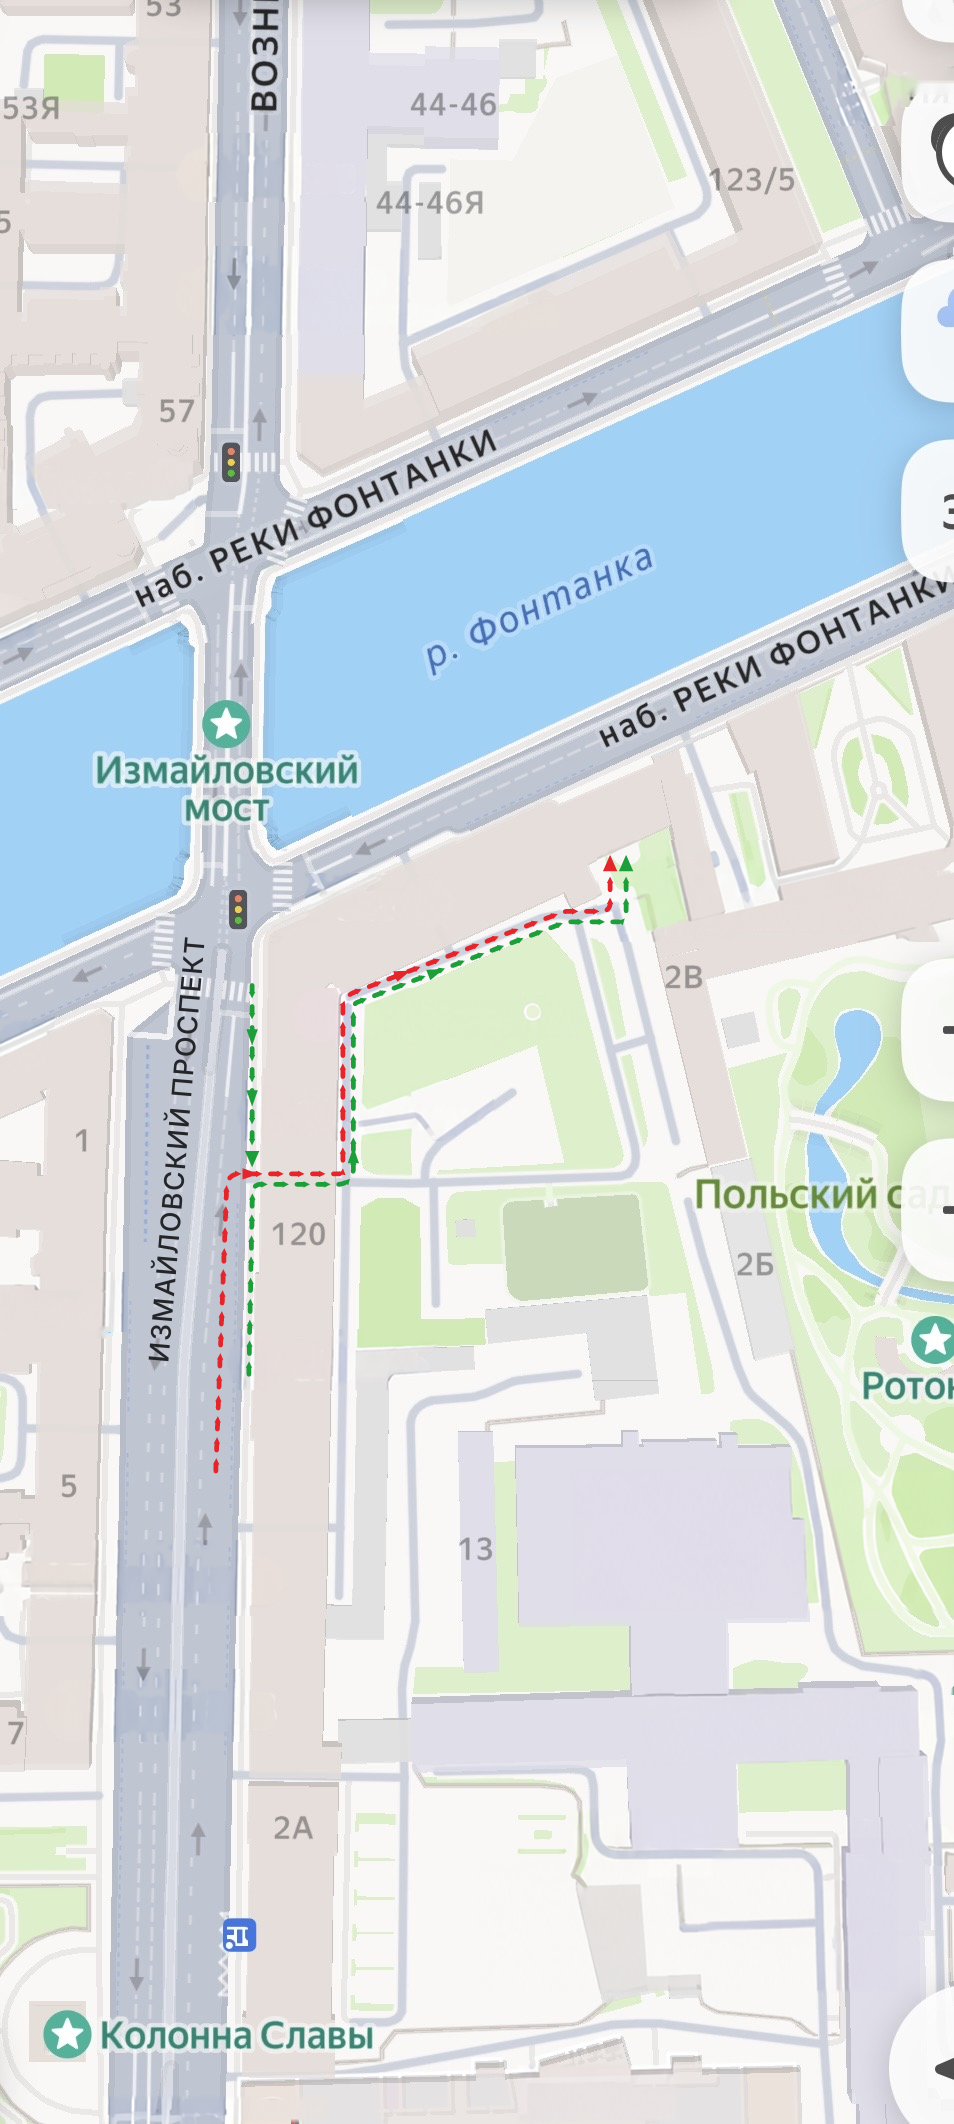
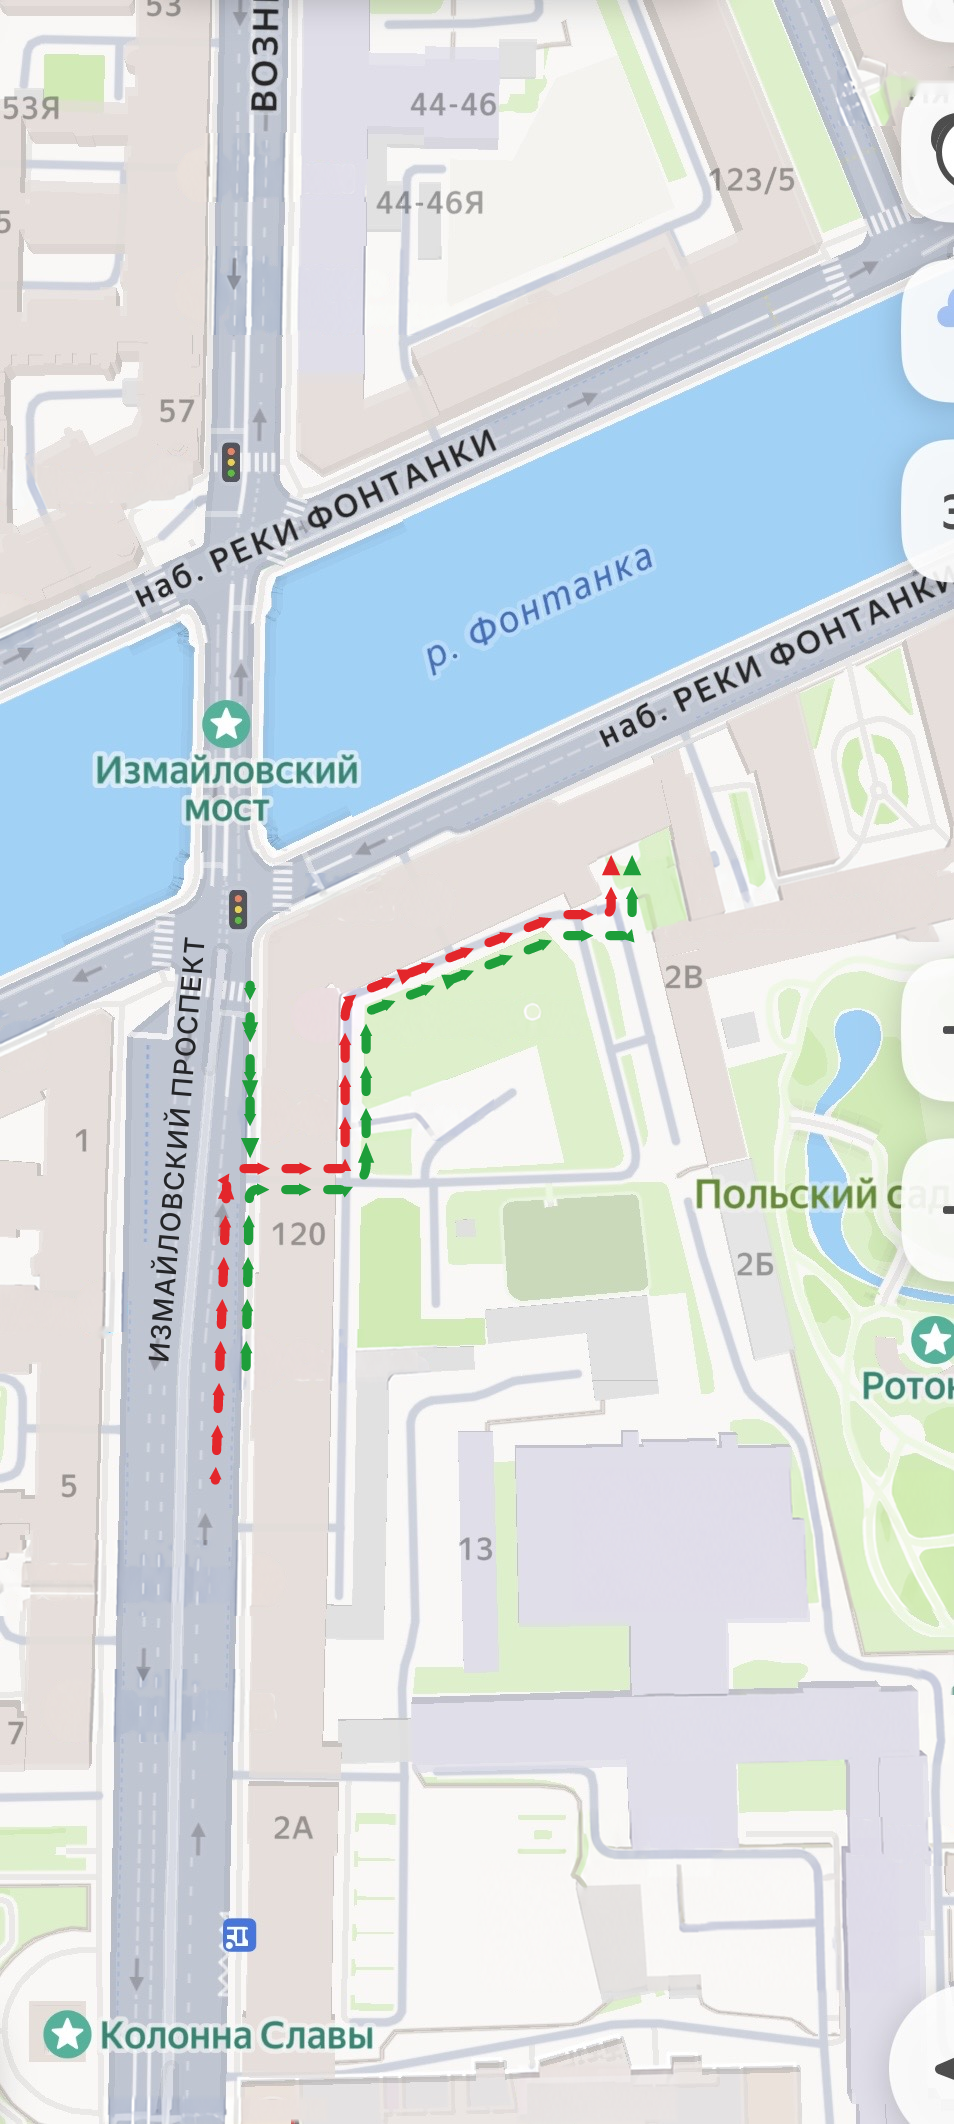
Double route stroke width and red/green gap
- stroke 4.4 -> 8.8 px; dash pattern and arrowheads scaled so the
  direction pointers stay visible on the thicker stroke
- gap between red and green lines 6 -> 12 px; courtyard axes moved
  away from the buildings to make room, final arrows 21 px apart

Claude-Session: https://claude.ai/code/session_011ZKiB5jfvHUZeSMyHGDLTQ

Changed region(s): [[0.2128, 0.404, 0.6688, 0.7147]]

diff --git a/make_routes.py b/make_routes.py
@@ -28,15 +28,15 @@ orig = np.asarray(base).copy()
 RED = (227, 38, 43)
 GREEN = (30, 158, 58)
 TEXT = (36, 37, 40)
-LINE_W = 4.4        # stroke width, px (+10 %)
-HEAD_LEN = 16.0     # arrowhead length, px
-DASH_BODY = 9.0     # dash stroke length, px
-DASH_HEAD = 6.0     # length of the small pointer on every dash, px
-DASH_HW = 6.0       # its base width
-DASH_GAP = 6.0      # gap between dashes, px
-HEAD_W = 14.0       # arrowhead base width, px
-MID_W = 11.0        # base width of the intermediate arrowheads (narrower: must fit between the red line and the courtyard wall)
-OFF = 5.2           # half-distance between parallel red/green centre lines: line gap 2*OFF-LINE_W = 6 px
+LINE_W = 8.8        # stroke width, px (x2)
+HEAD_LEN = 20.0     # arrowhead length, px
+DASH_BODY = 18.0    # dash stroke length, px (dash pattern scaled x2 with the stroke)
+DASH_HEAD = 12.0    # length of the small pointer on every dash, px
+DASH_HW = 12.0      # its base width
+DASH_GAP = 12.0     # gap between dashes, px
+HEAD_W = 18.0       # arrowhead base width, px
+MID_W = 16.0        # base width of the intermediate arrowheads (narrower: must fit between the red line and the courtyard wall)
+OFF = 10.4          # half-distance between parallel red/green centre lines: line gap 2*OFF-LINE_W = 12 px
 
 
 # ---------- geometry helpers ----------
@@ -100,9 +100,9 @@ def fillet_path(pts, radii, step=0.25):
 # ---------- route geometry ----------
 EAST, NORTH = (1, 0), (0, -1)
 L_ARCH = line_pd((246, 1179), EAST)                 # through the arch
-L_YARD = line_pd((348, 1179), NORTH)                 # courtyard driveway, vertical (+1.5 px east: room for the 6 px gap)
-L_DIAG = line_pd((460, 957), (1, -0.385))            # courtyard driveway, diagonal (+4.5 px south: clear of facade)
-L_TOP = line_pd((600, 916.5), EAST)                  # driveway in front of the museum (+3.5 px: clear of the notch)
+L_YARD = line_pd((355.5, 1179), NORTH)               # courtyard driveway, vertical (+9 px east: room for the 12 px gap)
+L_DIAG = line_pd((460, 964.8), (1, -0.385))          # courtyard driveway, diagonal (+12.5 px south: clear of facade)
+L_TOP = line_pd((600, 925), EAST)                    # driveway in front of the museum (+12 px: clear of the notch)
 TIP_Y = 855                                          # arrow tips, just short of the facade
 
 
@@ -117,17 +117,17 @@ def shared(side):
     return [meet(a, y), meet(y, g), meet(g, t)]
 
 
-R_ARCH_TURN, R_DIAG, R_TOP = 10, 12, 20
-red_v = [(curb_lane(1480), 1480), None] + shared(-1) + [(610, 916.5 - OFF), (610, TIP_Y)]
+R_ARCH_TURN, R_DIAG, R_TOP = 14, 16, 20
+red_v = [(curb_lane(1480), 1480), None] + shared(-1) + [(611, 925 - OFF), (611, TIP_Y)]
 red_lane = line_pd((curb_lane(1480), 1480), (curb_lane(1176) - curb_lane(1480), 1176 - 1480))
 red_v[1] = meet(red_lane, offset(L_ARCH, -OFF))
 red = fillet_path(red_v, [12, R_ARCH_TURN - OFF, R_DIAG + OFF, R_TOP - OFF, 8])
 
-walk_lane = line_pd((248.5, 1385), (4, -203))           # middle of the east sidewalk (narrows to the south)
-green_s_v = [(248.5, 1385), meet(walk_lane, offset(L_ARCH, OFF))] + shared(+1) + [(626, 916.5 + OFF), (626, TIP_Y)]
+walk_lane = line_pd((245.5, 1385), (4, -203))           # east sidewalk, kept clear of the facade (narrows to the south)
+green_s_v = [(245.5, 1385), meet(walk_lane, offset(L_ARCH, OFF))] + shared(+1) + [(632, 925 + OFF), (632, TIP_Y)]
 green_s = fillet_path(green_s_v, [8, R_ARCH_TURN + OFF, R_DIAG - OFF, R_TOP + OFF, 8])
 
-green_n = fillet_path([(252, 985), (252, 1167)], [])
+green_n = fillet_path([(250, 985), (250, 1158)], [])   # stops short of the wider red line; 2 px off the facade
 
 ROUTES = [("red_car", red, RED), ("green_walk_south", green_s, GREEN), ("green_walk_north", green_n, GREEN)]
 

diff --git a/verify.py b/verify.py
@@ -31,7 +31,7 @@ check("no changed pixel outside masks", not np.any(diff & ~union),
       f"changed={diff.sum()}, mask={union.sum()} px ({100 * union.mean():.2f}% of image), outside={np.sum(diff & ~union)}")
 
 # 3. arch: the only passage through the building along the prospekt (light strip y 1175-1182)
-ARCH_X, ARCH_Y = (262, 334), (1170, 1188)
+ARCH_X, ARCH_Y = (262, 334), (1160, 1198)  # passage y 1175-1182 plus the width of both lines
 for name in ("red_car", "green_walk_south"):
     p = np.array(meta[name]["path"])
     inside = p[(p[:, 0] >= ARCH_X[0]) & (p[:, 0] <= ARCH_X[1])]
@@ -39,11 +39,11 @@ for name in ("red_car", "green_walk_south"):
           f"y in arch span {inside[:, 1].min():.1f}-{inside[:, 1].max():.1f}")
 pn = np.array(meta["green_walk_north"]["path"])
 check("green_walk_north ends at the arch entrance (continues on green line)",
-      np.hypot(*(pn[-1] - [252, 1179])) < 15 and abs(pn[-1][0] - 252) < 1, f"tip {pn[-1].round(1).tolist()}")
+      np.hypot(*(pn[-1] - [252, 1179])) < 25 and abs(pn[-1][0] - 251) < 2, f"tip {pn[-1].round(1).tolist()}")
 
 # 4. arrowheads point towards destination
 DEST = np.array([626, 822])  # vertex of the check mark (mapped)
-for name, goal in (("red_car", DEST), ("green_walk_south", DEST), ("green_walk_north", np.array([252, 1182]))):
+for name, goal in (("red_car", DEST), ("green_walk_south", DEST), ("green_walk_north", np.array([250, 1182]))):
     p = np.array(meta[name]["path"])
     d = np.array(meta[name]["end_dir"])
     tip = p[-1]
@@ -79,7 +79,7 @@ R, G, B = o[..., 0], o[..., 1], o[..., 2]
 bld = (R - B >= 7) & (R >= 215) & (R <= 240) & (G <= R) & (np.abs(G - B) < 12)
 bld = cv2.morphologyEx(bld.astype(np.uint8), cv2.MORPH_OPEN, np.ones((3, 3), np.uint8)) > 0
 arch = np.zeros_like(bld)
-arch[ARCH_Y[0]:ARCH_Y[1] + 1, 255:342] = True
+arch[ARCH_Y[0]:ARCH_Y[1] + 1, 255:340] = True
 for k, name in (("red", "red"), ("green_s", "green south"), ("green_n", "green north")):
     hit = (L[k] > 0.05) & bld & ~arch
     ys, xs = np.nonzero(hit)
